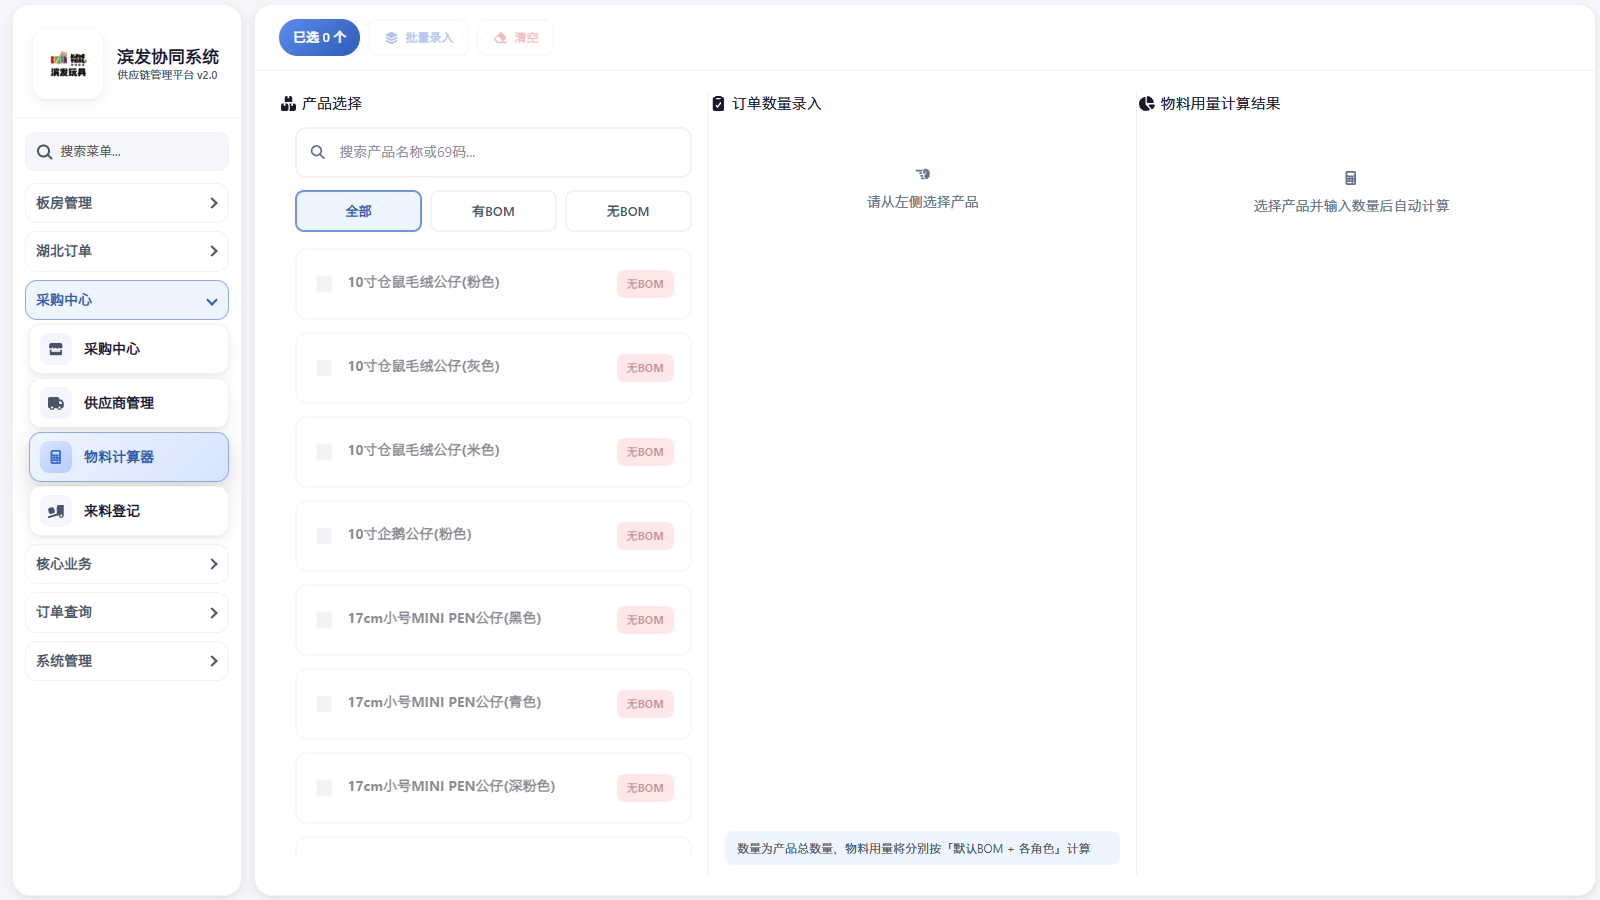
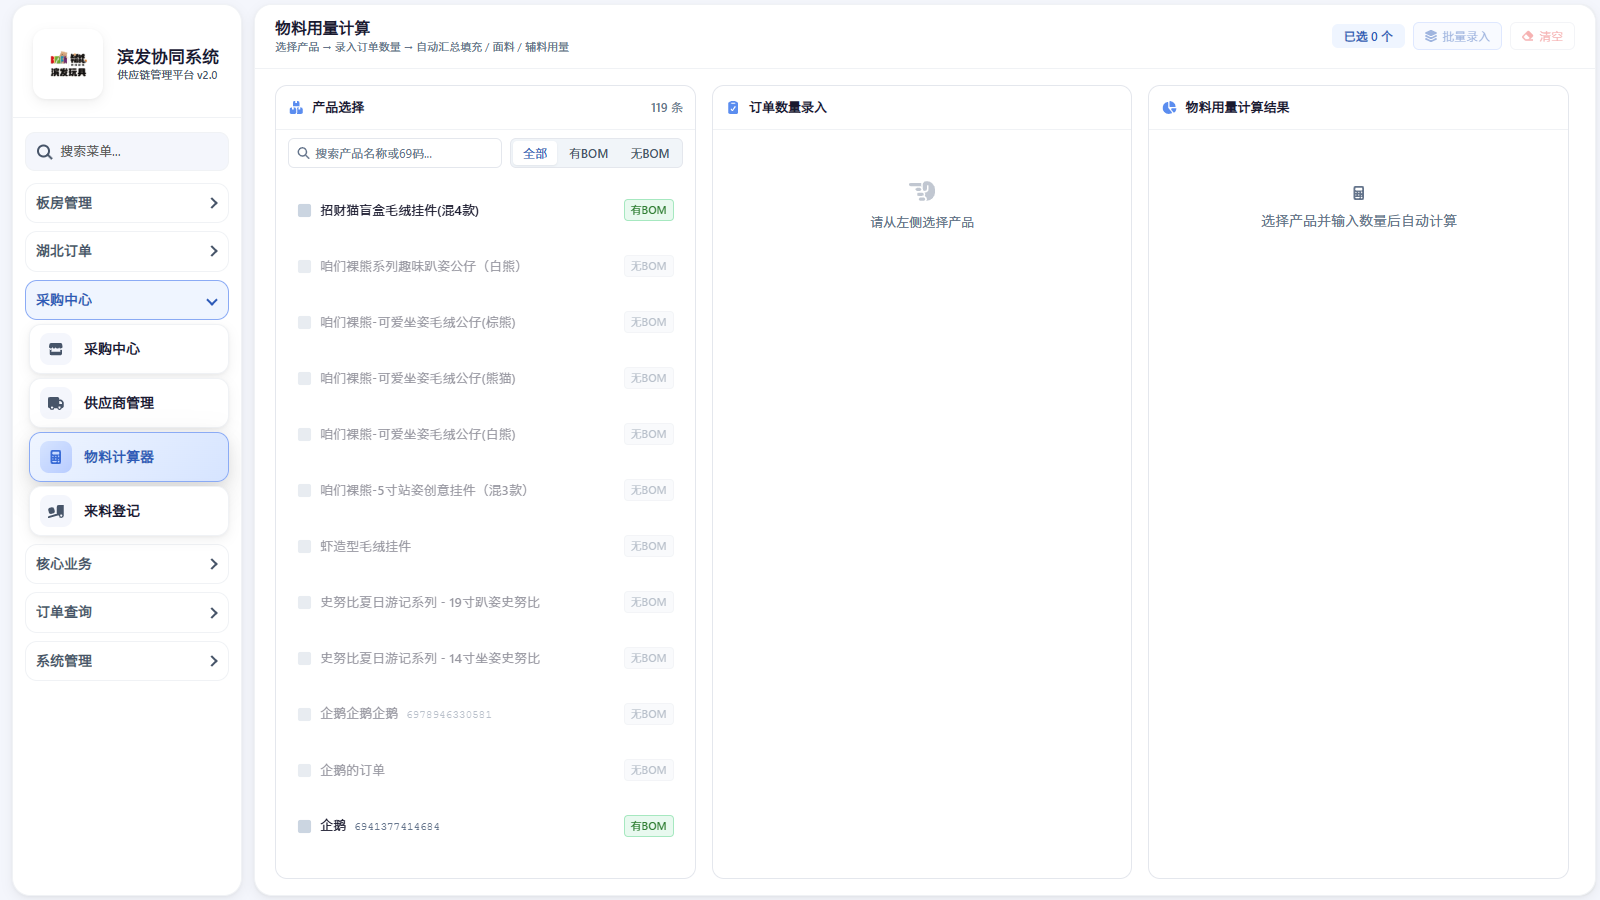
fix(material-calculator): 结果表列宽按“表头空隙相等”重算并去表头右对齐
- 表格为 table-layout:fixed。原按内容宽直觉配比，实测 1600px 视口下空白占
  全表 47.4% 且分配与表头需求倒挂（「总采购量」表头文字 60px 只分到 75px 列宽，
  比表头仅 33px 的「供应商」还窄）。改为按「每列盒宽 = 本列表头文字宽 + 常数 C」
  推导（实测 C=40.6 → 18.7/21.4/22.6/21.4/15.9%），使相邻表头空隙相等。
- 移除表头 .is-num 右对齐：「总采购量」表头右对齐会把本列空白全堆在左侧、
  右侧只剩 2×padding，实测相邻空隙退化为 [38, 38.9, 73, 16]（极差 57px），
  是表头间距不均的主因；数字右对齐保留在数据行（td 仍带 .is-num）。
- 同步更新物料计算器列宽验证证据截图。

diff --git a/frontend-vite/src/views/material-calculator/components/CalcCategoryBlock.vue b/frontend-vite/src/views/material-calculator/components/CalcCategoryBlock.vue
@@ -29,7 +29,7 @@
             <th>供应商</th>
             <th>物料名称</th>
             <th>规格/色号</th>
-            <th class="is-num">总采购量</th>
+            <th>总采购量</th>
             <th>单位</th>
           </tr>
         </thead>
@@ -99,26 +99,36 @@ function unitOf(catKey: string, row: CalcRowVM): string {
 
 <style scoped>
 /* 列宽配比（colgroup 上的百分比）。
-   背景：auto 布局按「内容宽比例」分配多余空间，实测 1600px 视口下空白占全表 47.4%，
-   且分配结果与表头需求倒挂——「总采购量」表头文字就有 60px 却只分到 75px 列宽，
-   比表头仅 33px 的「供应商」(78.9px) 还窄；「物料名称」则独占 50px 纯空白。
-   配比依据 = 各列「表头文字宽 + 典型内容宽 + 16px 内边距」，再把剩余空间均分：
-   实测需求 49/60/65/76/38px，余量 107px 五等分 → 目标 70/81/86/97/59px。
-   仍保留 auto 布局：百分比是**目标值**而非硬约束，窄列下浏览器会保证内容不溢出。 */
+   目标：让**相邻表头文字之间的空隙相等**。
+
+   空隙公式（.mc-table 是 table-layout:fixed，padding 8px，表头一律左对齐）：
+       相邻空隙 = 本列盒宽 − 本列文字宽
+   （左列的右内边距 + 右列的左内边距 = 16px，正好抵消，故 padding 不参与）
+   ⇒ 要空隙处处相等，只需每列盒宽 = 文字宽 + 常数 C。
+   实测表头文字宽 33 / 44 / 48.6 / 44 / 22（合计 191.6），表宽 394.7
+   ⇒ 5C = 394.7 − 191.6 = 203.1 ⇒ C = 40.6
+   ⇒ 目标盒宽 73.6 / 84.6 / 89.2 / 84.6 / 62.6 ⇒ 百分比 18.7 / 21.4 / 22.6 / 21.4 / 15.9
+
+   ⚠ 表头必须左对齐（故 th 不带 .is-num）。曾用 .is-num 让「总采购量」表头右对齐
+   以贴合数字，但那会让本列的空白全堆在左侧、右侧只剩 2×padding：
+   实测空隙退化成 [38, 38.9, 73, 16]，极差 57px —— 表头间距不均的主因。
+   数字右对齐的价值保留在**数据行**（td 仍带 .is-num）。
+
+   百分比在 fixed 布局下是硬约束，表宽恒等于容器宽，不会溢出（见 app.css 的 .mc-table）。 */
 .mc-col-supplier {
-  width: 18%;
+  width: 18.7%;
 }
 .mc-col-name {
-  width: 21%;
+  width: 21.4%;
 }
 .mc-col-spec {
-  width: 22%;
+  width: 22.6%;
 }
 .mc-col-qty {
-  width: 24%;
+  width: 21.4%;
 }
 .mc-col-unit {
-  width: 15%;
+  width: 15.9%;
 }
 
 /* 区块之间 1px 分隔线，末尾不加 */
